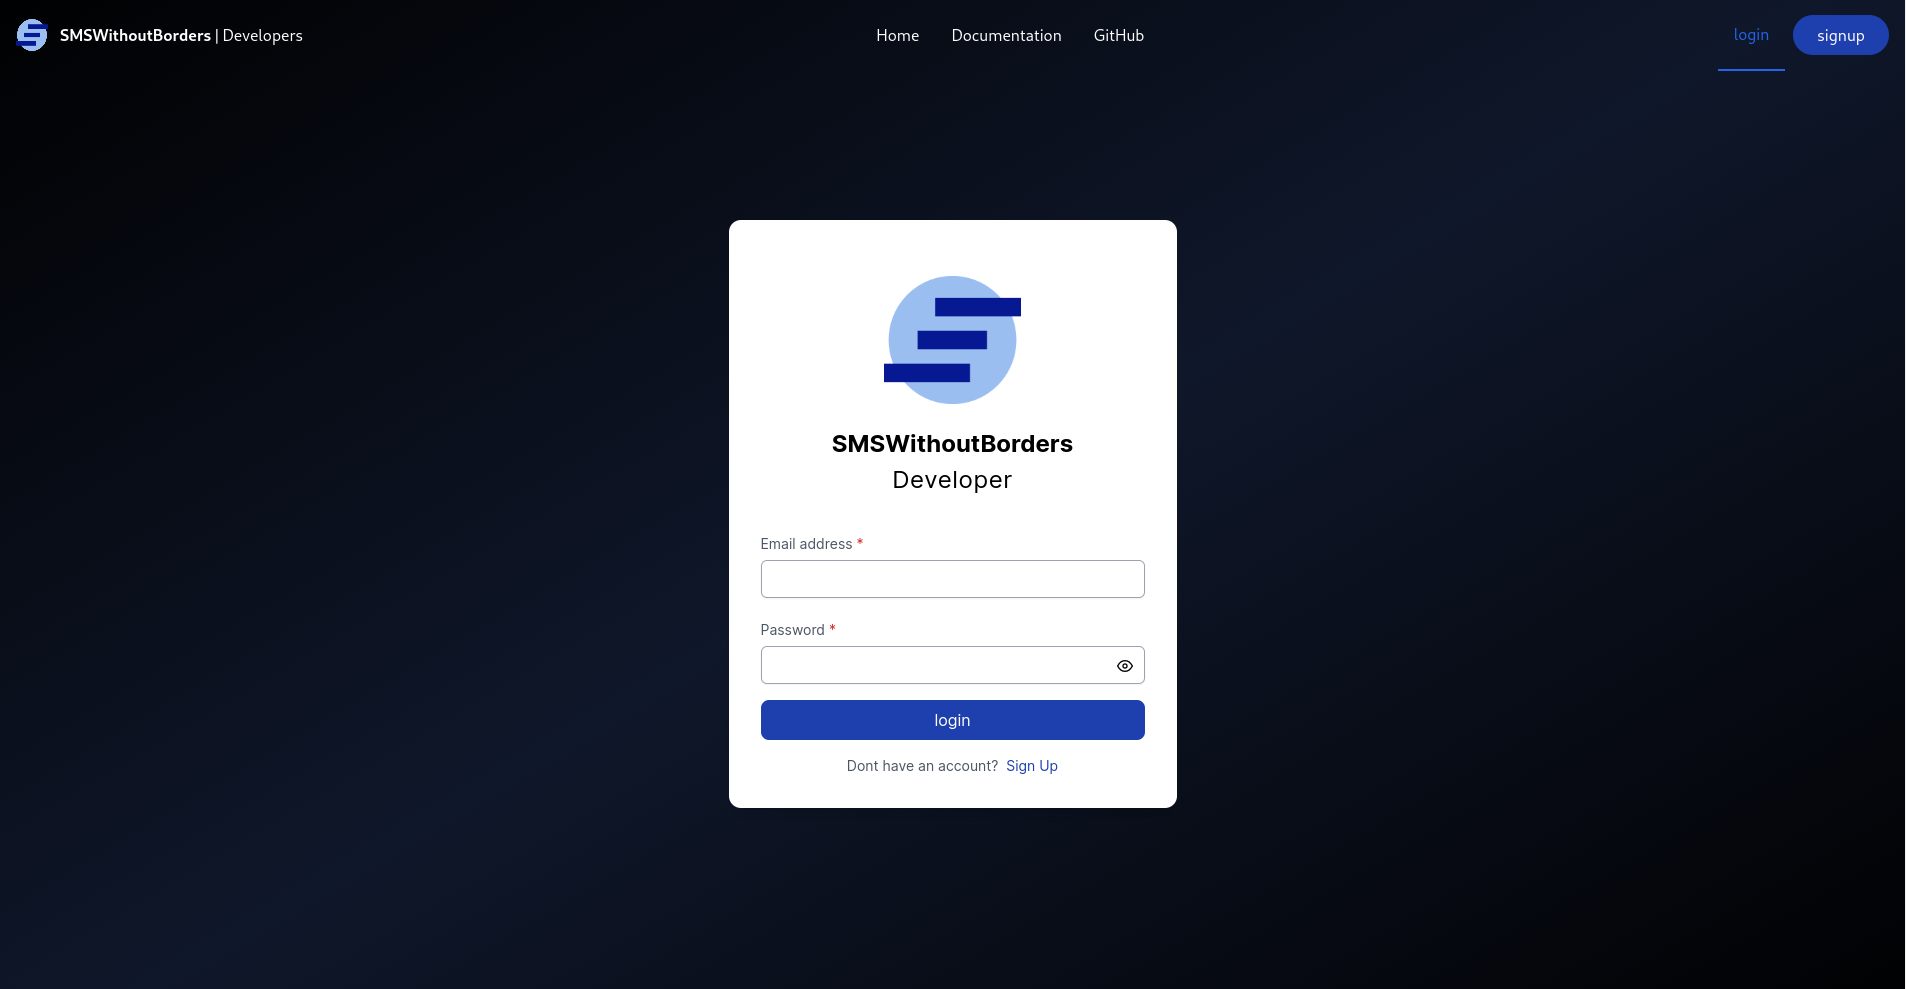
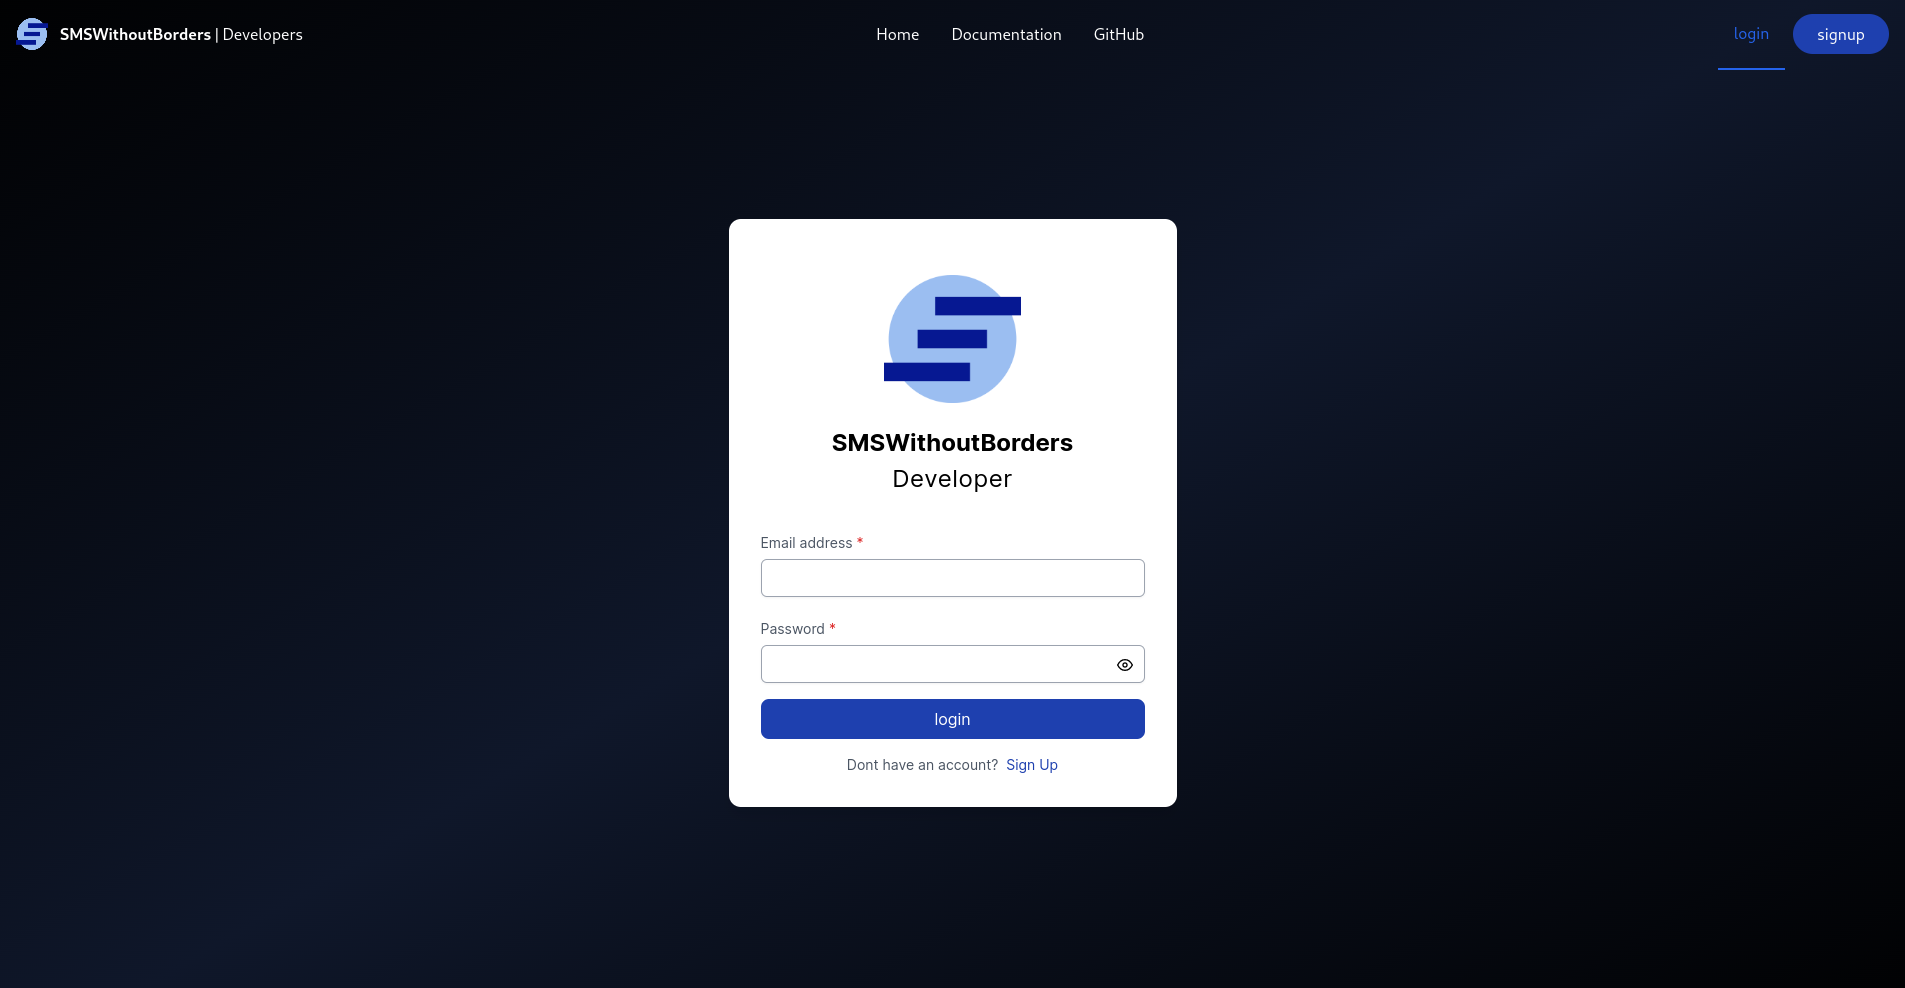
update(portfolio): adjust carousel height per viewport and change title to bigger

diff --git a/src/app/portfolio/page.tsx b/src/app/portfolio/page.tsx
@@ -18,7 +18,7 @@ const Portfolio = () => {
         <header className="">
           <motion.h1
             variants={variants}
-            className="text-3xl font-extrabold tracking-wide md:text-4xl"
+            className="text-4xl font-extrabold tracking-wide md:text-5xl"
           >
             Portfolio
           </motion.h1>
@@ -39,11 +39,11 @@ const Portfolio = () => {
           {data.map((project) => (
             <div key={project.id} className="mb-10">
               <div className="mb-6">
-                <span className="text-xl font-light uppercase">
+                <span className="text-lg font-light uppercase">
                   {project.organization}
                   {project.program ? ` | ${project.program}` : ""}
                 </span>
-                <h3 className="my-0 text-2xl">{project.title}</h3>
+                <h3 className="mt-1 mb-4 text-2xl ">{project.title}</h3>
               </div>
 
               <Carousel images={project.images} />

diff --git a/src/app/components/Carousel.tsx b/src/app/components/Carousel.tsx
@@ -34,7 +34,7 @@ export const Carousel = ({ images }: Props) => {
   }
 
   return (
-    <motion.div className="relative h-[15rem] md:h-[40rem]">
+    <motion.div className="relative h-[15rem] md:h-[30rem] lg:h-[45rem]">
       <MotionImage
         fill
         key={index}

diff --git a/src/app/components/Footer.tsx b/src/app/components/Footer.tsx
@@ -1,6 +1,5 @@
 import { Facebook, Github, Linkedin, Twitter } from "lucide-react";
 import { Logo } from "./Logo";
-import Image from "next/image";
 import Link from "next/link";
 
 export const Footer = () => {